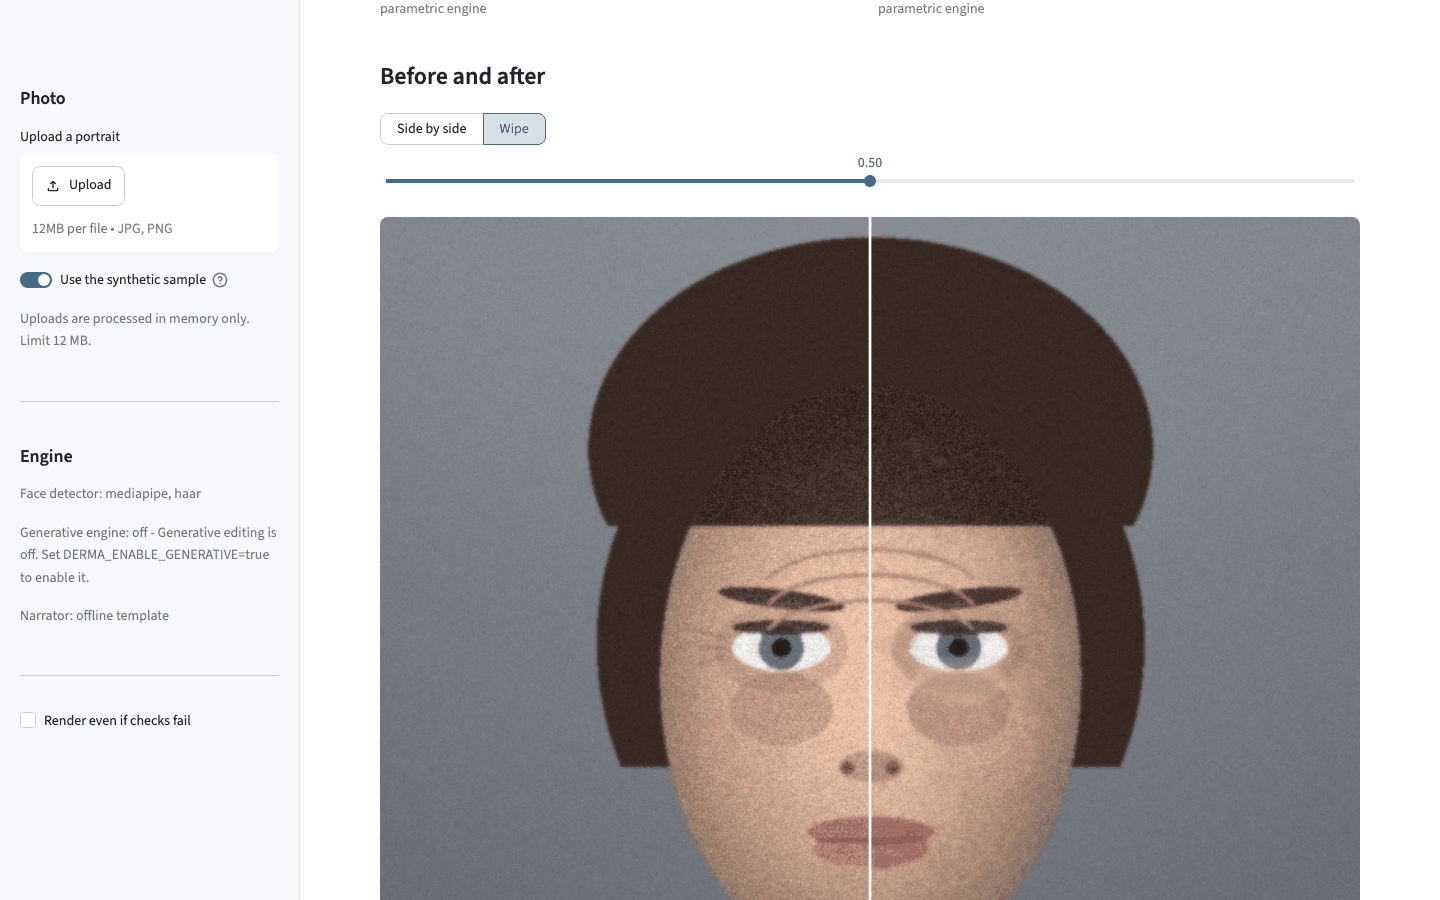
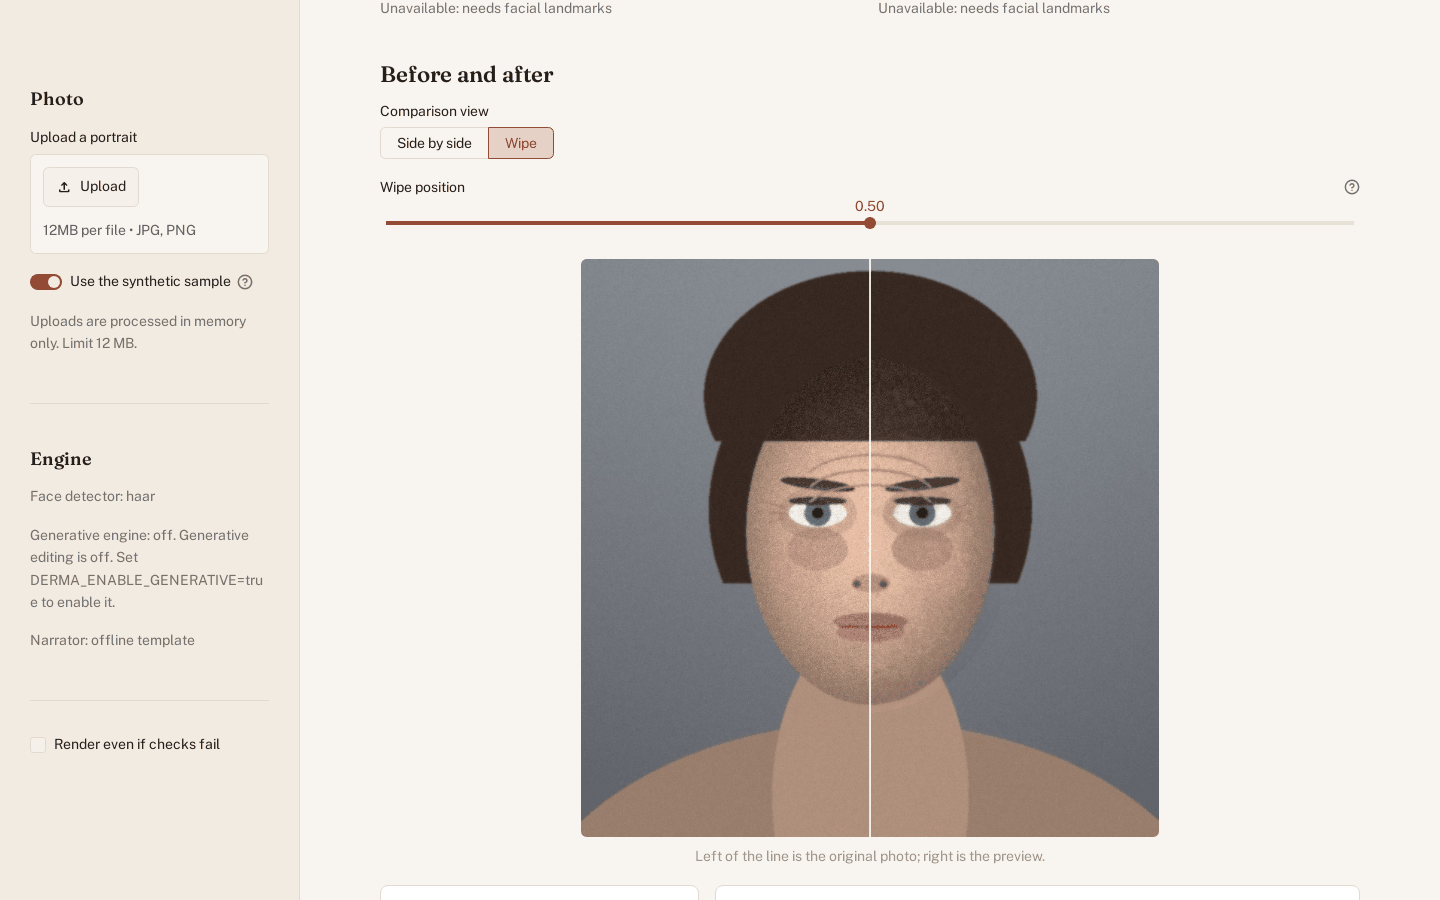
Retake the screenshots from the Docker image and refresh the README
Seven captures at 1440x900 and 390x844 against the Compose build,
including the unreadable-upload error and the mobile layout. The README
gains the narrator build switch, the CLI exit codes, a --json excerpt,
the current image size and test count.

diff --git a/README.md b/README.md
@@ -26,26 +26,39 @@ generated face … Not a real person"*, and no test touches a real photograph.
 
 ## What the screens look like
 
-**Controls, and a report where every check answers for itself** — one the detector cannot
-measure says so rather than quietly passing.
+All of these come from the Docker image (`docker compose up --build`), which ships no
+optional ML packages: Haar detection only, so the landmark procedures are disabled *with
+the reason shown* and head tilt reads "Not measured".
 
-![Treatment controls and the photo-quality report](docs/screenshots/01-overview.png)
+**Photo quality, then controls.** Every check names its own verdict in words, so a check
+the detector cannot measure says so rather than quietly passing.
 
-**Before and after** — the original is never off screen, each treatment is itemised with
-its engine and cost, and a [wipe mode](docs/screenshots/03-wipe-compare.png) is the
+![Photo-quality report and treatment controls](docs/screenshots/01-overview.png)
+
+**Before and after.** The original is never off screen, each treatment is itemised with
+its engine and cost, and a [wipe view](docs/screenshots/03-wipe-compare.png) is the
 alternative.
 
 ![Side-by-side comparison, identity signal and applied treatments](docs/screenshots/02-compare-and-identity.png)
 
-**Consultation notes** — what the edit did and what the identity number does not mean, by
-Claude when `ANTHROPIC_API_KEY` is set, otherwise the offline template shown here.
+**Consultation notes.** What the edit did and what the identity number does not mean,
+written by Claude when the narrator is installed and a key is set, otherwise by the
+offline template shown here. Notes belong to one edit: move a slider and they are hidden
+until you ask again.
 
-![Consultation notes generated from the offline template](docs/screenshots/04-consultation-notes.png)
+![Consultation notes from the offline template](docs/screenshots/04-consultation-notes.png)
 
-**The Docker image, which ships no optional ML dependencies.** Haar detection, landmark
-procedures disabled *with the reason shown*, head tilt "Not measured".
+**A file that is not an image** gets a sentence, not a stack trace; so does an upload over
+the size or pixel limit.
 
-![The app running with no optional ML dependencies installed](docs/screenshots/05-no-ml-deps-fallback.png)
+![Error shown for an unreadable upload](docs/screenshots/05-unreadable-upload.png)
+
+**On a phone** (390 px wide) the sidebar starts collapsed and the panels stack.
+
+<p>
+  <img src="docs/screenshots/06-mobile-overview.png" alt="Quality checks on a 390 px wide screen" width="260">
+  <img src="docs/screenshots/07-mobile-compare.png" alt="Before and after on a 390 px wide screen" width="260">
+</p>
 
 ## From upload to preview
 
@@ -92,11 +105,11 @@ stateDiagram-v2
     Rendering --> [*]
 ```
 
-Most thresholds live in `QCThresholds` (`src/config.py`): Laplacian variance ≥ 100 at a fixed
-512 px width so the score is size-stable, mean brightness 90–200, contrast ≥ 25, ≤ 15 %
-clipped highlights or shadows, roll within ±20°. The minimum face coverage (4 % of frame) is
-still a constant in `src/qc.py`. All are heuristics tuned on the synthetic sample, which is
-why the ones in `QCThresholds` are configurable.
+Every threshold lives in `QCThresholds` (`src/config.py`): face coverage ≥ 4 % of the
+frame, Laplacian variance ≥ 100 at a fixed 512 px width so the score is size-stable, mean
+brightness 90–200, contrast ≥ 25, ≤ 15 % clipped highlights or shadows, roll within ±20°.
+They are heuristics tuned on the synthetic sample, which is why they are configurable
+rather than scattered through `src/qc.py`.
 
 ## The identity signal, and what it is not
 
@@ -126,19 +139,28 @@ docker compose down -v
 It boots with the synthetic portrait already loaded, so there is nothing to upload first.
 The image ships the **lightweight path**: `python:3.12-slim`, multi-stage, non-root
 (`derma`, uid 10001), read-only root filesystem with tmpfs mounts, `no-new-privileges`,
-healthchecked on `/_stcore/health`. The recorded build is **274 MB** and booted `healthy`
-on `8200 -> 8501`, with `mediapipe`, `torch` and `diffusers` confirmed absent inside the
-container and `available_detectors()` returning `['haar']` — so "works with no ML
-dependencies" is the path actually built and booted, and screenshot 5 is that container.
+healthchecked on `/_stcore/health`. The current build is about 296 MB compressed
+(1.27 GB unpacked, most of it OpenCV, SciPy and PyArrow). Inside it `mediapipe`, `torch`,
+`diffusers` and `anthropic` are absent and `available_detectors()` returns `['haar']`,
+so "works with no ML dependencies" is the path actually built and booted.
 
-Locally, plus the two optional extras the app detects at runtime and names in the sidebar:
+To let Claude write the consultation notes, build with the narrator SDK and pass a key
+(copy `.env.example` to `.env` and fill in the last two lines, or export them):
+
+```bash
+DERMA_WITH_NARRATOR=true ANTHROPIC_API_KEY=... docker compose up --build
+```
+
+Locally, on Python 3.12 (`.python-version`), plus the optional extras the app detects at
+runtime and names in the sidebar:
 
 ```bash
 python -m venv .venv && source .venv/bin/activate
-pip install -r requirements.txt && streamlit run app.py
+pip install -r requirements.txt && streamlit run app.py   # http://localhost:8501
 
 pip install -r requirements-landmarks.txt  # MediaPipe FaceMesh -> lip and under-eye previews
 pip install -r requirements-ml.txt         # SDXL inpainting; also set DERMA_ENABLE_GENERATIVE=true
+pip install -r requirements-narrator.txt   # Claude-written notes; also set ANTHROPIC_API_KEY
 ```
 
 ## The same pipeline, without a browser
@@ -165,12 +187,33 @@ This is a proof of concept, not a medical device. Previews are illustrative imag
 ```
 
 `--out preview.png` writes the before/after pair, `--json` prints the structure the UI
-downloads and the narrator reads, and `--force` renders past failed checks.
+downloads and the narrator reads, and `--force` renders past failed checks. A missing or
+unreadable file exits with status 2 and a one-line reason; a photo with no face, or one
+that fails a check without `--force`, exits with 1.
+
+The start of the `--json` output for the same run:
+
+```json
+{
+  "disclaimer": "This is a proof of concept, not a medical device. ...",
+  "detector": "haar",
+  "landmarks": false,
+  "quality_checks": [
+    {"name": "Face detected", "status": "pass", "value": null, "detail": "One face located by the haar detector."},
+    {"name": "Face size", "status": "pass", "value": 30.91244167751736, "detail": "Face fills enough of the frame."},
+    ...
+    {"name": "Head tilt", "status": "skipped", "value": null, "detail": "The haar detector does not provide landmarks, so head tilt could not be measured."}
+  ],
+  "treatments": [{"key": "wrinkle", "label": "Wrinkle smoothing", "intensity": 55, "engine": "parametric", ...}, ...],
+  "identity": {"ssim": 0.979, "threshold": 0.8, "within_threshold": true, "verdict": "Barely changed"},
+  ...
+}
+```
 
 ## Settings
 
 `src/config.py` resolves these once at startup and is the only place the app reads its own
-settings from `os.environ`; the one other reader is `src/narrative.py`, which checks whether
+settings from `os.environ` (`.env.example` lists them all); the one other reader is `src/narrative.py`, which checks whether
 an Anthropic credential is present before attempting a call.
 
 | Variable | Default | What it does |
@@ -181,7 +224,8 @@ an Anthropic credential is present before attempting a call.
 | `DERMA_FACE_DETECTOR` | `auto` | `auto`, `mediapipe` or `haar`; an unavailable preference falls back with a warning. |
 | `DERMA_ENABLE_GENERATIVE` | `false` | Enables SDXL inpainting. Needs `requirements-ml.txt`; without it the UI says so and uses the parametric engines. |
 | `DERMA_NARRATOR_ENABLED` | `true` | Allows Claude-written consultation notes. Off means the fixed template is always used. |
-| `ANTHROPIC_API_KEY` | — | **Unset is a supported state**: the notes come from the deterministic template instead. |
+| `ANTHROPIC_API_KEY` | — | **Unset is a supported state**: the notes come from the deterministic template instead. Also needs `requirements-narrator.txt`. |
+| `DERMA_WITH_NARRATOR` | `false` | Compose build argument, not read by the app: `true` installs the narrator SDK into the image. |
 
 Also read: `DERMA_EXPORT_MAX_SIDE` (`2048`), `DERMA_NARRATOR_MODEL` (`claude-opus-5`), `DERMA_LOG_LEVEL` (`INFO`), `DERMA_SDXL_MODEL_ID`, `DERMA_SDXL_MAX_SIDE` (`768`).
 
@@ -221,7 +265,7 @@ one class plus `register_detector`.
 
 ```bash
 pip install -r requirements-dev.txt
-pytest                                  # 201 tests across 11 files
+pytest                                  # 210 tests across 12 files
 ruff check . && ruff format --check .
 ```
 
@@ -229,7 +273,9 @@ No test downloads a model, needs a GPU, makes a network call or touches a real p
 `tests/conftest.py` supplies a synthetic FaceMesh landmark array and a recording generative
 editor, `tests/test_narrative.py` installs a fake `anthropic` module, `tests/test_generative.py`
 substitutes the SDXL pipeline, and the suite passes with none of MediaPipe, torch or `anthropic`
-installed.
+installed. `tests/test_app.py` drives the Streamlit page itself through `streamlit.testing`:
+it boots on the sample, checks the landmark sliders are disabled on a Haar face, and moves a
+slider after writing notes to prove the stale notes disappear.
 
 Streamlit re-runs the whole script on every slider nudge, so decode, detection and the skin
 mask are cached on a SHA-256 fingerprint of the pixels, and `imaging.masked_filter` crops to
